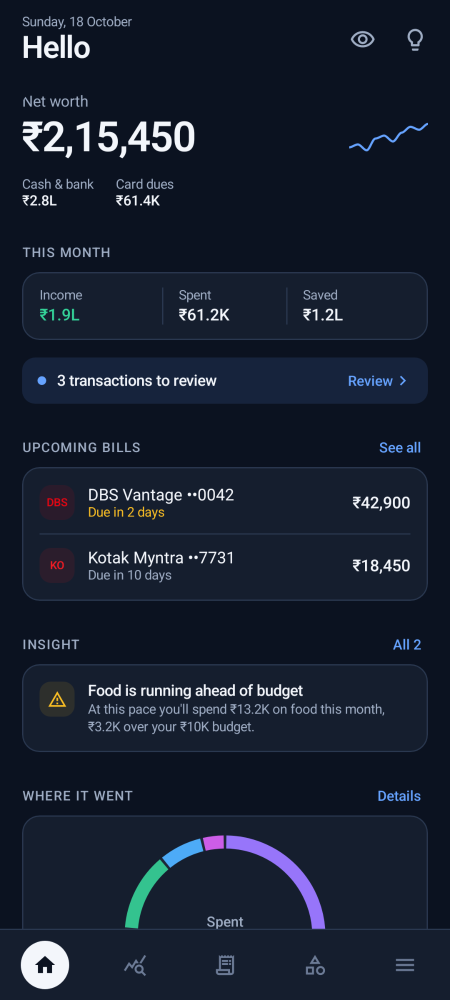
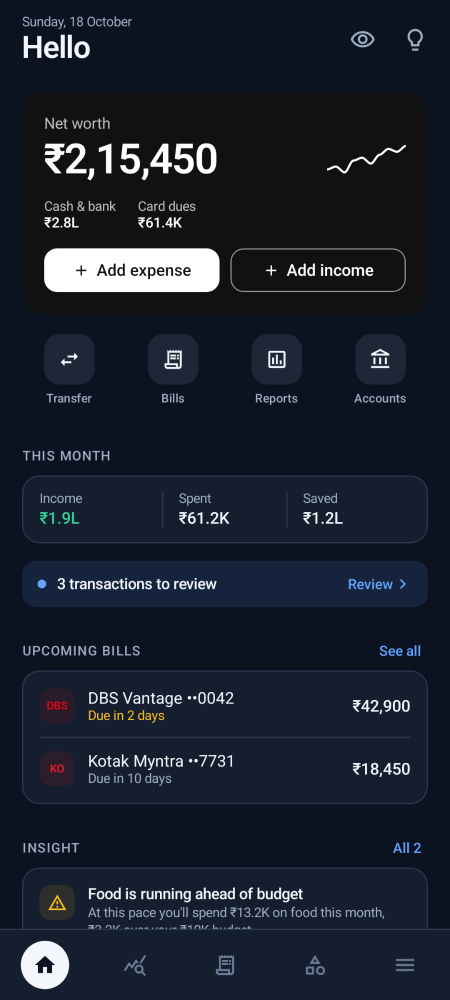
v1.6.0: fintech-reference home redesign — ink balance card with quick actions, quick-action tiles, category breakdown bars

diff --git a/app/src/main/java/com/acuranza/app/ui/home/HomeScreen.kt b/app/src/main/java/com/acuranza/app/ui/home/HomeScreen.kt
@@ -54,7 +54,6 @@ import androidx.lifecycle.compose.collectAsStateWithLifecycle
 import androidx.lifecycle.viewModelScope
 import androidx.navigation.NavController
 import com.acuranza.app.designsystem.components.AmountText
-import com.acuranza.app.designsystem.components.BalanceHeroCard
 import com.acuranza.app.designsystem.components.BankBadge
 import com.acuranza.app.designsystem.components.ChartLegend
 import com.acuranza.app.designsystem.components.ChartSlice
@@ -107,6 +106,16 @@ import kotlinx.coroutines.flow.shareIn
 import kotlinx.coroutines.flow.stateIn
 import kotlinx.coroutines.launch
 import com.acuranza.app.ui.nav.navigateToTab
+import androidx.compose.material.icons.automirrored.outlined.ReceiptLong
+import androidx.compose.material.icons.outlined.SwapHoriz
+import androidx.compose.material.icons.outlined.Add
+import androidx.compose.material.icons.outlined.Assessment
+import androidx.compose.material3.LocalContentColor
+import androidx.compose.runtime.CompositionLocalProvider
+import com.acuranza.app.designsystem.components.GradientCard
+import com.acuranza.app.designsystem.components.HeroActionButton
+import com.acuranza.app.designsystem.components.QuickAction
+import com.acuranza.app.designsystem.components.Sparkline
 
 data class HomeState(
     val loading: Boolean = true,
@@ -311,6 +320,10 @@ fun HomeScreen(nav: NavController) {
         onDismissIgnoredSms = { vm.dismissIgnoredNotice() },
         onUncategorised = { nav.navigate(Routes.UNCATEGORISED) },
         onSafeToSpend = { planSheet = true },
+        onAddExpense = { nav.navigate(Routes.addTxn(TxnType.EXPENSE)) },
+        onAddIncome = { nav.navigate(Routes.addTxn(TxnType.INCOME)) },
+        onTransfer = { nav.navigate(Routes.addTxn(TxnType.TRANSFER)) },
+        onReports = { nav.navigate(Routes.REPORTS) },
         onLoadDemo = {
             loadingDemo = true
             scope.launch {
@@ -349,6 +362,10 @@ fun HomeContent(
     onDismissIgnoredSms: () -> Unit = {},
     onUncategorised: () -> Unit = {},
     onSafeToSpend: () -> Unit = {},
+    onAddExpense: () -> Unit = {},
+    onAddIncome: () -> Unit = {},
+    onTransfer: () -> Unit = {},
+    onReports: () -> Unit = {},
     listState: androidx.compose.foundation.lazy.LazyListState = androidx.compose.foundation.lazy.rememberLazyListState(),
 ) {
     val pad = Modifier.padding(horizontal = 20.dp)
@@ -381,23 +398,50 @@ fun HomeContent(
 
         item(key = "hero") {
             val nw = state.netWorth
-            Column(
-                pad.padding(top = 20.dp)
-                    .clip(androidx.compose.foundation.shape.RoundedCornerShape(12.dp)),
-            ) {
-                BalanceHeroCard(
-                    label = "Net worth",
-                    amount = nw?.total ?: 0,
-                    trend = state.trend,
-                    hidden = hidden,
-                )
-                if (nw != null) {
-                    Spacer(Modifier.height(14.dp))
-                    Row(horizontalArrangement = Arrangement.spacedBy(20.dp)) {
-                        MiniFigure("Cash & bank", nw.liquid, hidden)
-                        MiniFigure(if (nw.loans > 0) "Dues & loans" else "Card dues", nw.cardDebt + nw.loans, hidden)
+            GradientCard(pad.padding(top = 20.dp), contentPadding = PaddingValues(20.dp)) {
+                CompositionLocalProvider(LocalContentColor provides Color.White) {
+                    Text("Net worth", style = MaterialTheme.typography.bodyMedium, color = Color.White.copy(alpha = 0.72f))
+                    Spacer(Modifier.height(2.dp))
+                    Row(verticalAlignment = Alignment.Bottom, modifier = Modifier.fillMaxWidth()) {
+                        AmountText(
+                            paise = nw?.total ?: 0,
+                            style = AmountStyles.hero,
+                            color = Color.White,
+                            hidden = hidden,
+                            animate = true,
+                            modifier = Modifier.weight(1f),
+                        )
+                        if (state.trend.size >= 2) {
+                            Sparkline(
+                                values = state.trend,
+                                modifier = Modifier.padding(bottom = 8.dp).size(width = 72.dp, height = 28.dp),
+                                color = Color.White,
+                                fill = false,
+                            )
+                        }
+                    }
+                    if (nw != null) {
+                        Spacer(Modifier.height(14.dp))
+                        Row(horizontalArrangement = Arrangement.spacedBy(20.dp)) {
+                            MiniFigure("Cash & bank", nw.liquid, hidden, onDark = true)
+                            MiniFigure(if (nw.loans > 0) "Dues & loans" else "Card dues", nw.cardDebt + nw.loans, hidden, onDark = true)
+                        }
+                    }
+                    Spacer(Modifier.height(16.dp))
+                    Row(horizontalArrangement = Arrangement.spacedBy(10.dp)) {
+                        HeroActionButton("Add expense", onAddExpense, Modifier.weight(1f), filled = true, icon = Icons.Outlined.Add)
+                        HeroActionButton("Add income", onAddIncome, Modifier.weight(1f), filled = false, icon = Icons.Outlined.Add)
                     }
                 }
+            }
+        }
+
+        item(key = "quick") {
+            Row(pad.padding(top = 12.dp), horizontalArrangement = Arrangement.spacedBy(8.dp)) {
+                QuickAction("Transfer", Icons.Outlined.SwapHoriz, onTransfer, Modifier.weight(1f))
+                QuickAction("Bills", Icons.AutoMirrored.Outlined.ReceiptLong, onBills, Modifier.weight(1f))
+                QuickAction("Reports", Icons.Outlined.Assessment, onReports, Modifier.weight(1f))
+                QuickAction("Accounts", Icons.Outlined.AccountBalance, onAccounts, Modifier.weight(1f))
             }
         }
 
@@ -546,21 +590,39 @@ fun HomeContent(
                         Spacer(Modifier.height(16.dp))
                         spend.take(6).forEachIndexed { i, c ->
                             if (i > 0) ListHairline(start = 18.dp)
-                            Row(
+                            Column(
                                 Modifier
                                     .fillMaxWidth()
                                     .clip(RoundedCornerShape(10.dp))
                                     .clickable { onCategory(c.categoryKey) }
                                     .padding(vertical = 10.dp),
-                                verticalAlignment = Alignment.CenterVertically,
                             ) {
-                                Box(Modifier.size(8.dp).clip(CircleShape).background(c.category.color()))
-                                Spacer(Modifier.width(10.dp))
-                                Text(c.category?.name ?: c.categoryKey, style = MaterialTheme.typography.bodyMedium, modifier = Modifier.weight(1f), maxLines = 1)
-                                Text(Fmt.pct(c.share * 100, 0), style = MaterialTheme.typography.bodySmall, color = AcuranzaTheme.colors.tertiaryText)
-                                Spacer(Modifier.width(12.dp))
-                                AmountText(c.total, style = AmountStyles.small, hidden = hidden, compact = true)
-                                Icon(Icons.Outlined.ChevronRight, contentDescription = null, tint = AcuranzaTheme.colors.tertiaryText, modifier = Modifier.size(16.dp))
+                                Row(verticalAlignment = Alignment.CenterVertically) {
+                                    Box(Modifier.size(8.dp).clip(CircleShape).background(c.category.color()))
+                                    Spacer(Modifier.width(10.dp))
+                                    Text(c.category?.name ?: c.categoryKey, style = MaterialTheme.typography.bodyMedium, modifier = Modifier.weight(1f), maxLines = 1)
+                                    Text(Fmt.pct(c.share * 100, 0), style = MaterialTheme.typography.bodySmall, color = AcuranzaTheme.colors.tertiaryText)
+                                    Spacer(Modifier.width(12.dp))
+                                    AmountText(c.total, style = AmountStyles.small, hidden = hidden, compact = true)
+                                    Icon(Icons.Outlined.ChevronRight, contentDescription = null, tint = AcuranzaTheme.colors.tertiaryText, modifier = Modifier.size(16.dp))
+                                }
+                                Spacer(Modifier.height(8.dp))
+                                // Share of the month's spend, as in the reference breakdown.
+                                Box(
+                                    Modifier
+                                        .fillMaxWidth()
+                                        .height(4.dp)
+                                        .clip(CircleShape)
+                                        .background(AcuranzaTheme.colors.fill),
+                                ) {
+                                    Box(
+                                        Modifier
+                                            .fillMaxWidth(c.share.coerceIn(0.0, 1.0).toFloat())
+                                            .height(4.dp)
+                                            .clip(CircleShape)
+                                            .background(AcuranzaTheme.colors.accent),
+                                    )
+                                }
                             }
                         }
                     }
@@ -656,10 +718,12 @@ fun HomeContent(
 }
 
 @Composable
-private fun MiniFigure(label: String, value: Long, hidden: Boolean) {
+private fun MiniFigure(label: String, value: Long, hidden: Boolean, onDark: Boolean = false) {
+    val labelColor = if (onDark) Color.White.copy(alpha = 0.72f) else AcuranzaTheme.colors.subtleText
+    val valueColor = if (onDark) Color.White else AcuranzaTheme.colors.ink
     Column {
-        Text(label, style = MaterialTheme.typography.bodySmall, color = AcuranzaTheme.colors.subtleText)
-        AmountText(value, style = AmountStyles.small, compact = true, hidden = hidden, color = AcuranzaTheme.colors.ink)
+        Text(label, style = MaterialTheme.typography.bodySmall, color = labelColor)
+        AmountText(value, style = AmountStyles.small, compact = true, hidden = hidden, color = valueColor)
     }
 }
 

diff --git a/core/designsystem/src/main/java/com/acuranza/app/designsystem/components/Controls.kt b/core/designsystem/src/main/java/com/acuranza/app/designsystem/components/Controls.kt
@@ -424,6 +424,74 @@ fun PrimaryButton(
 }
 
 
+/** A square quick-action tile: icon in a filled rounded square with a label below. */
+@Composable
+fun QuickAction(
+    label: String,
+    icon: ImageVector,
+    onClick: () -> Unit,
+    modifier: Modifier = Modifier,
+) {
+    Column(
+        modifier
+            .clip(RoundedCornerShape(12.dp))
+            .clickable(role = Role.Button, onClick = onClick)
+            .padding(vertical = 6.dp),
+        horizontalAlignment = Alignment.CenterHorizontally,
+    ) {
+        Box(
+            Modifier
+                .size(46.dp)
+                .clip(RoundedCornerShape(14.dp))
+                .background(AcuranzaTheme.colors.fill),
+            contentAlignment = Alignment.Center,
+        ) {
+            Icon(icon, contentDescription = null, tint = AcuranzaTheme.colors.ink, modifier = Modifier.size(21.dp))
+        }
+        Spacer(Modifier.height(6.dp))
+        Text(label, style = MaterialTheme.typography.labelSmall, color = AcuranzaTheme.colors.subtleText, maxLines = 1)
+    }
+}
+
+/**
+ * A compact action button for use on an ink card: [filled] renders a white face with ink text,
+ * otherwise a white-outlined ghost with white text.
+ */
+@Composable
+fun HeroActionButton(
+    text: String,
+    onClick: () -> Unit,
+    modifier: Modifier = Modifier,
+    filled: Boolean = true,
+    icon: ImageVector? = null,
+) {
+    val shape = RoundedCornerShape(12.dp)
+    Row(
+        modifier = modifier
+            .heightIn(min = 40.dp)
+            .clip(shape)
+            .then(
+                if (filled) Modifier.background(Color.White)
+                else Modifier.border(1.dp, Color.White.copy(alpha = 0.55f), shape),
+            )
+            .clickable(role = Role.Button, onClick = onClick)
+            .padding(horizontal = 14.dp, vertical = 10.dp),
+        horizontalArrangement = Arrangement.Center,
+        verticalAlignment = Alignment.CenterVertically,
+    ) {
+        if (icon != null) {
+            Icon(icon, contentDescription = null, tint = if (filled) Color(0xFF111111) else Color.White, modifier = Modifier.size(16.dp))
+            Spacer(Modifier.width(6.dp))
+        }
+        Text(
+            text,
+            style = MaterialTheme.typography.labelLarge,
+            color = if (filled) Color(0xFF111111) else Color.White,
+            maxLines = 1,
+        )
+    }
+}
+
 /** A secondary button: white with a hairline border and ink text. */
 @Composable
 fun SecondaryButton(
